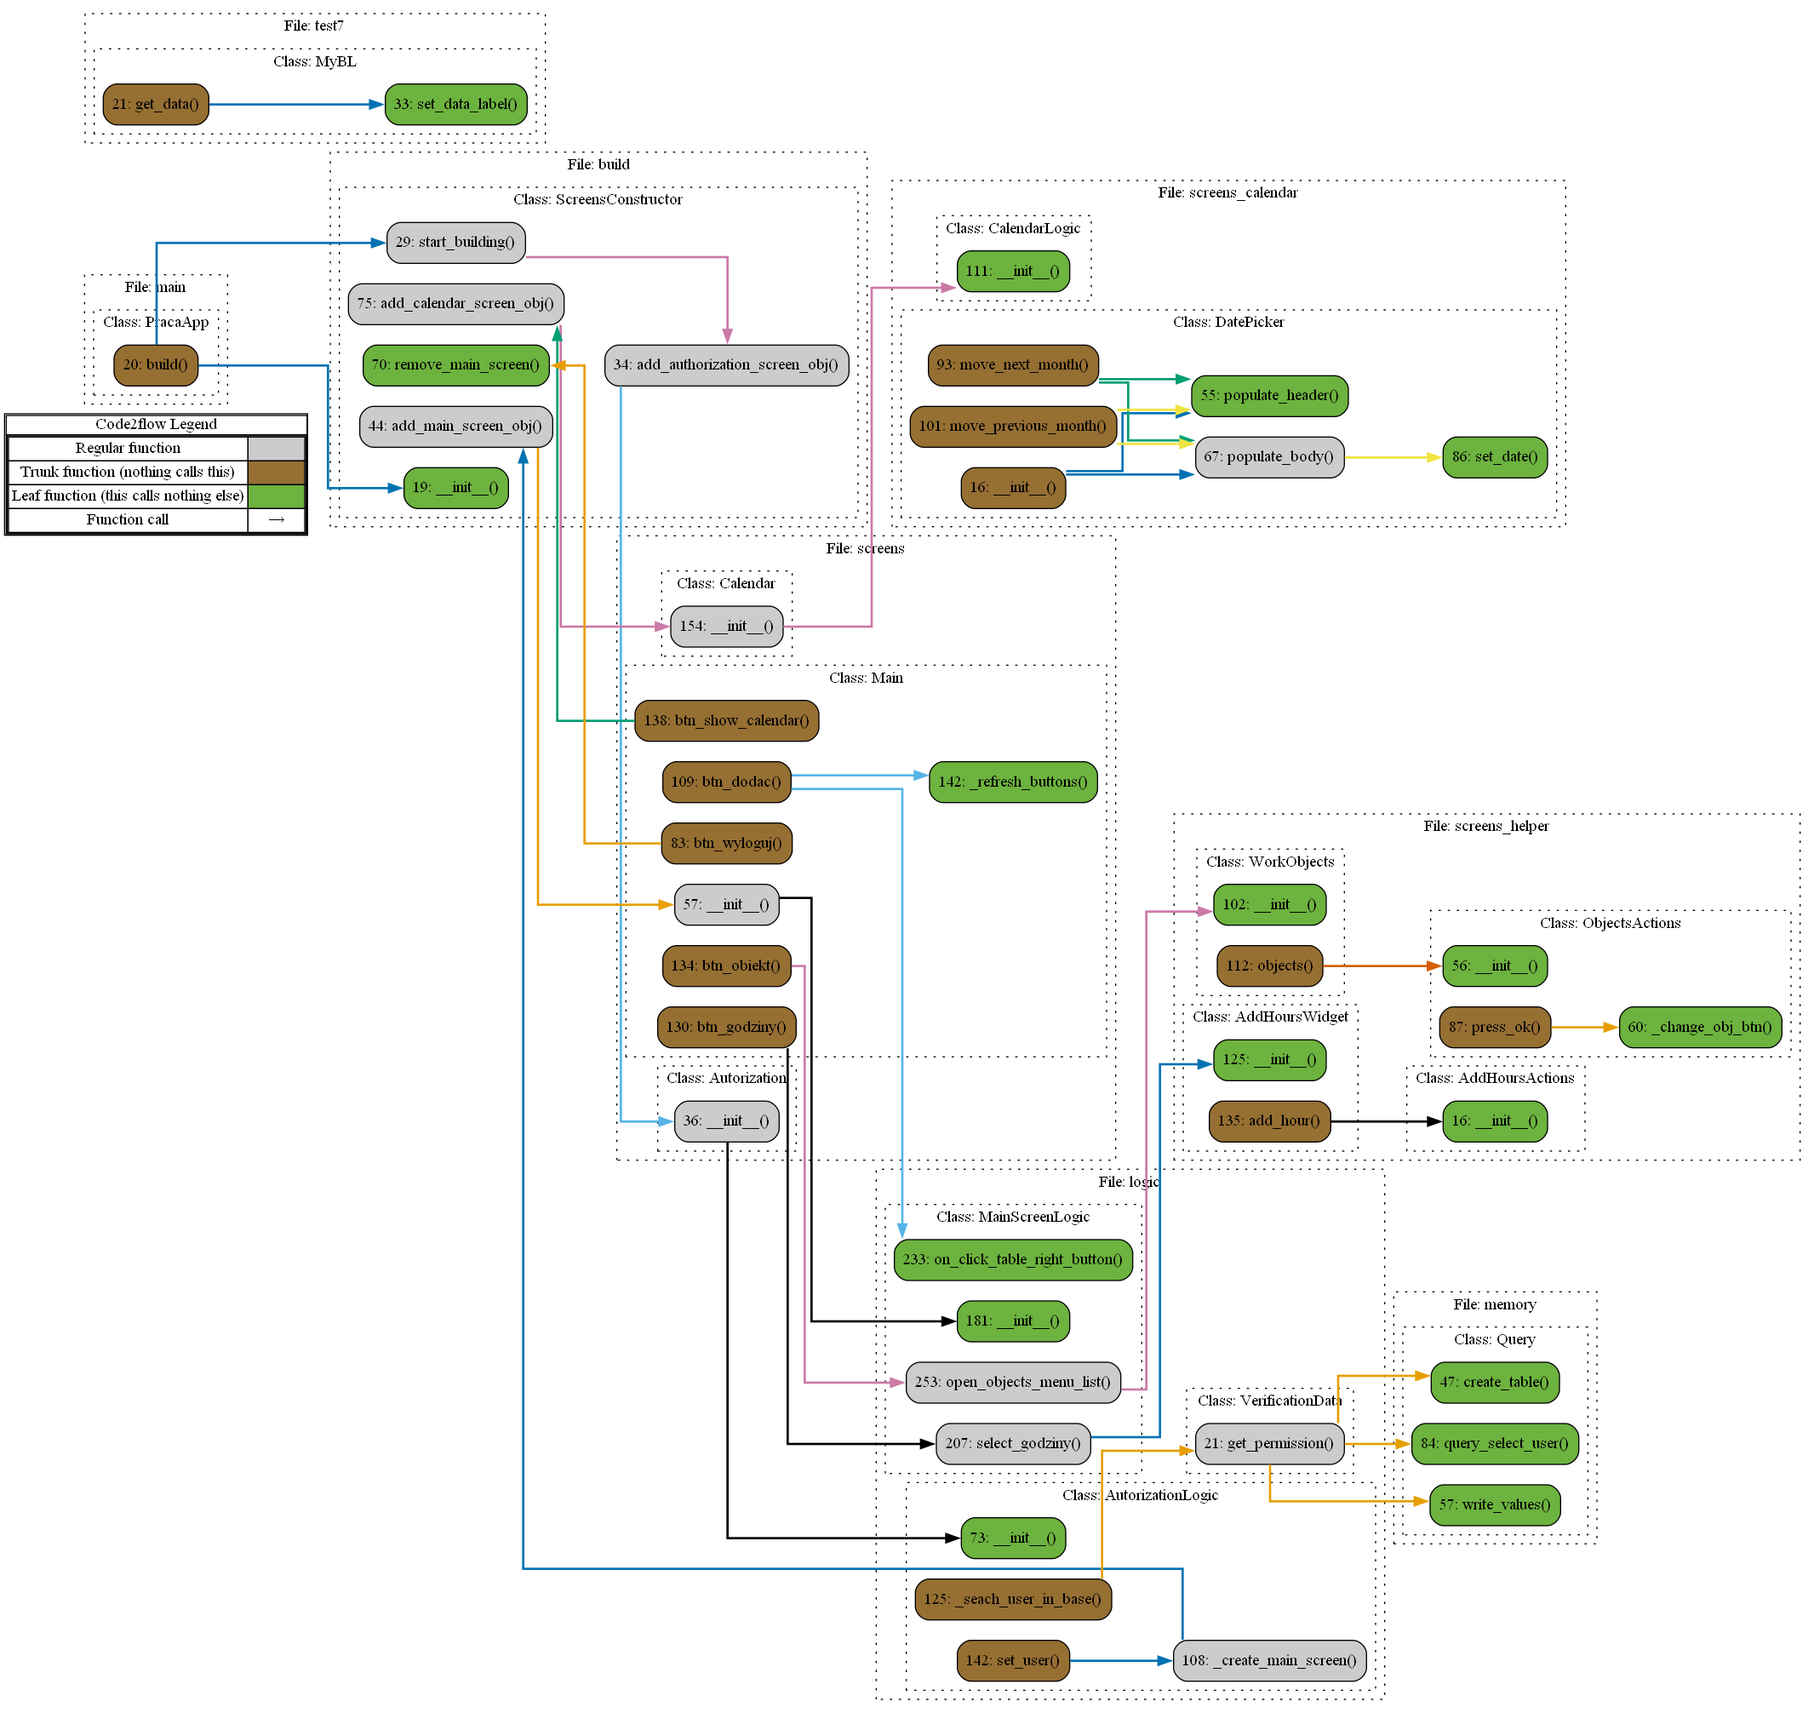
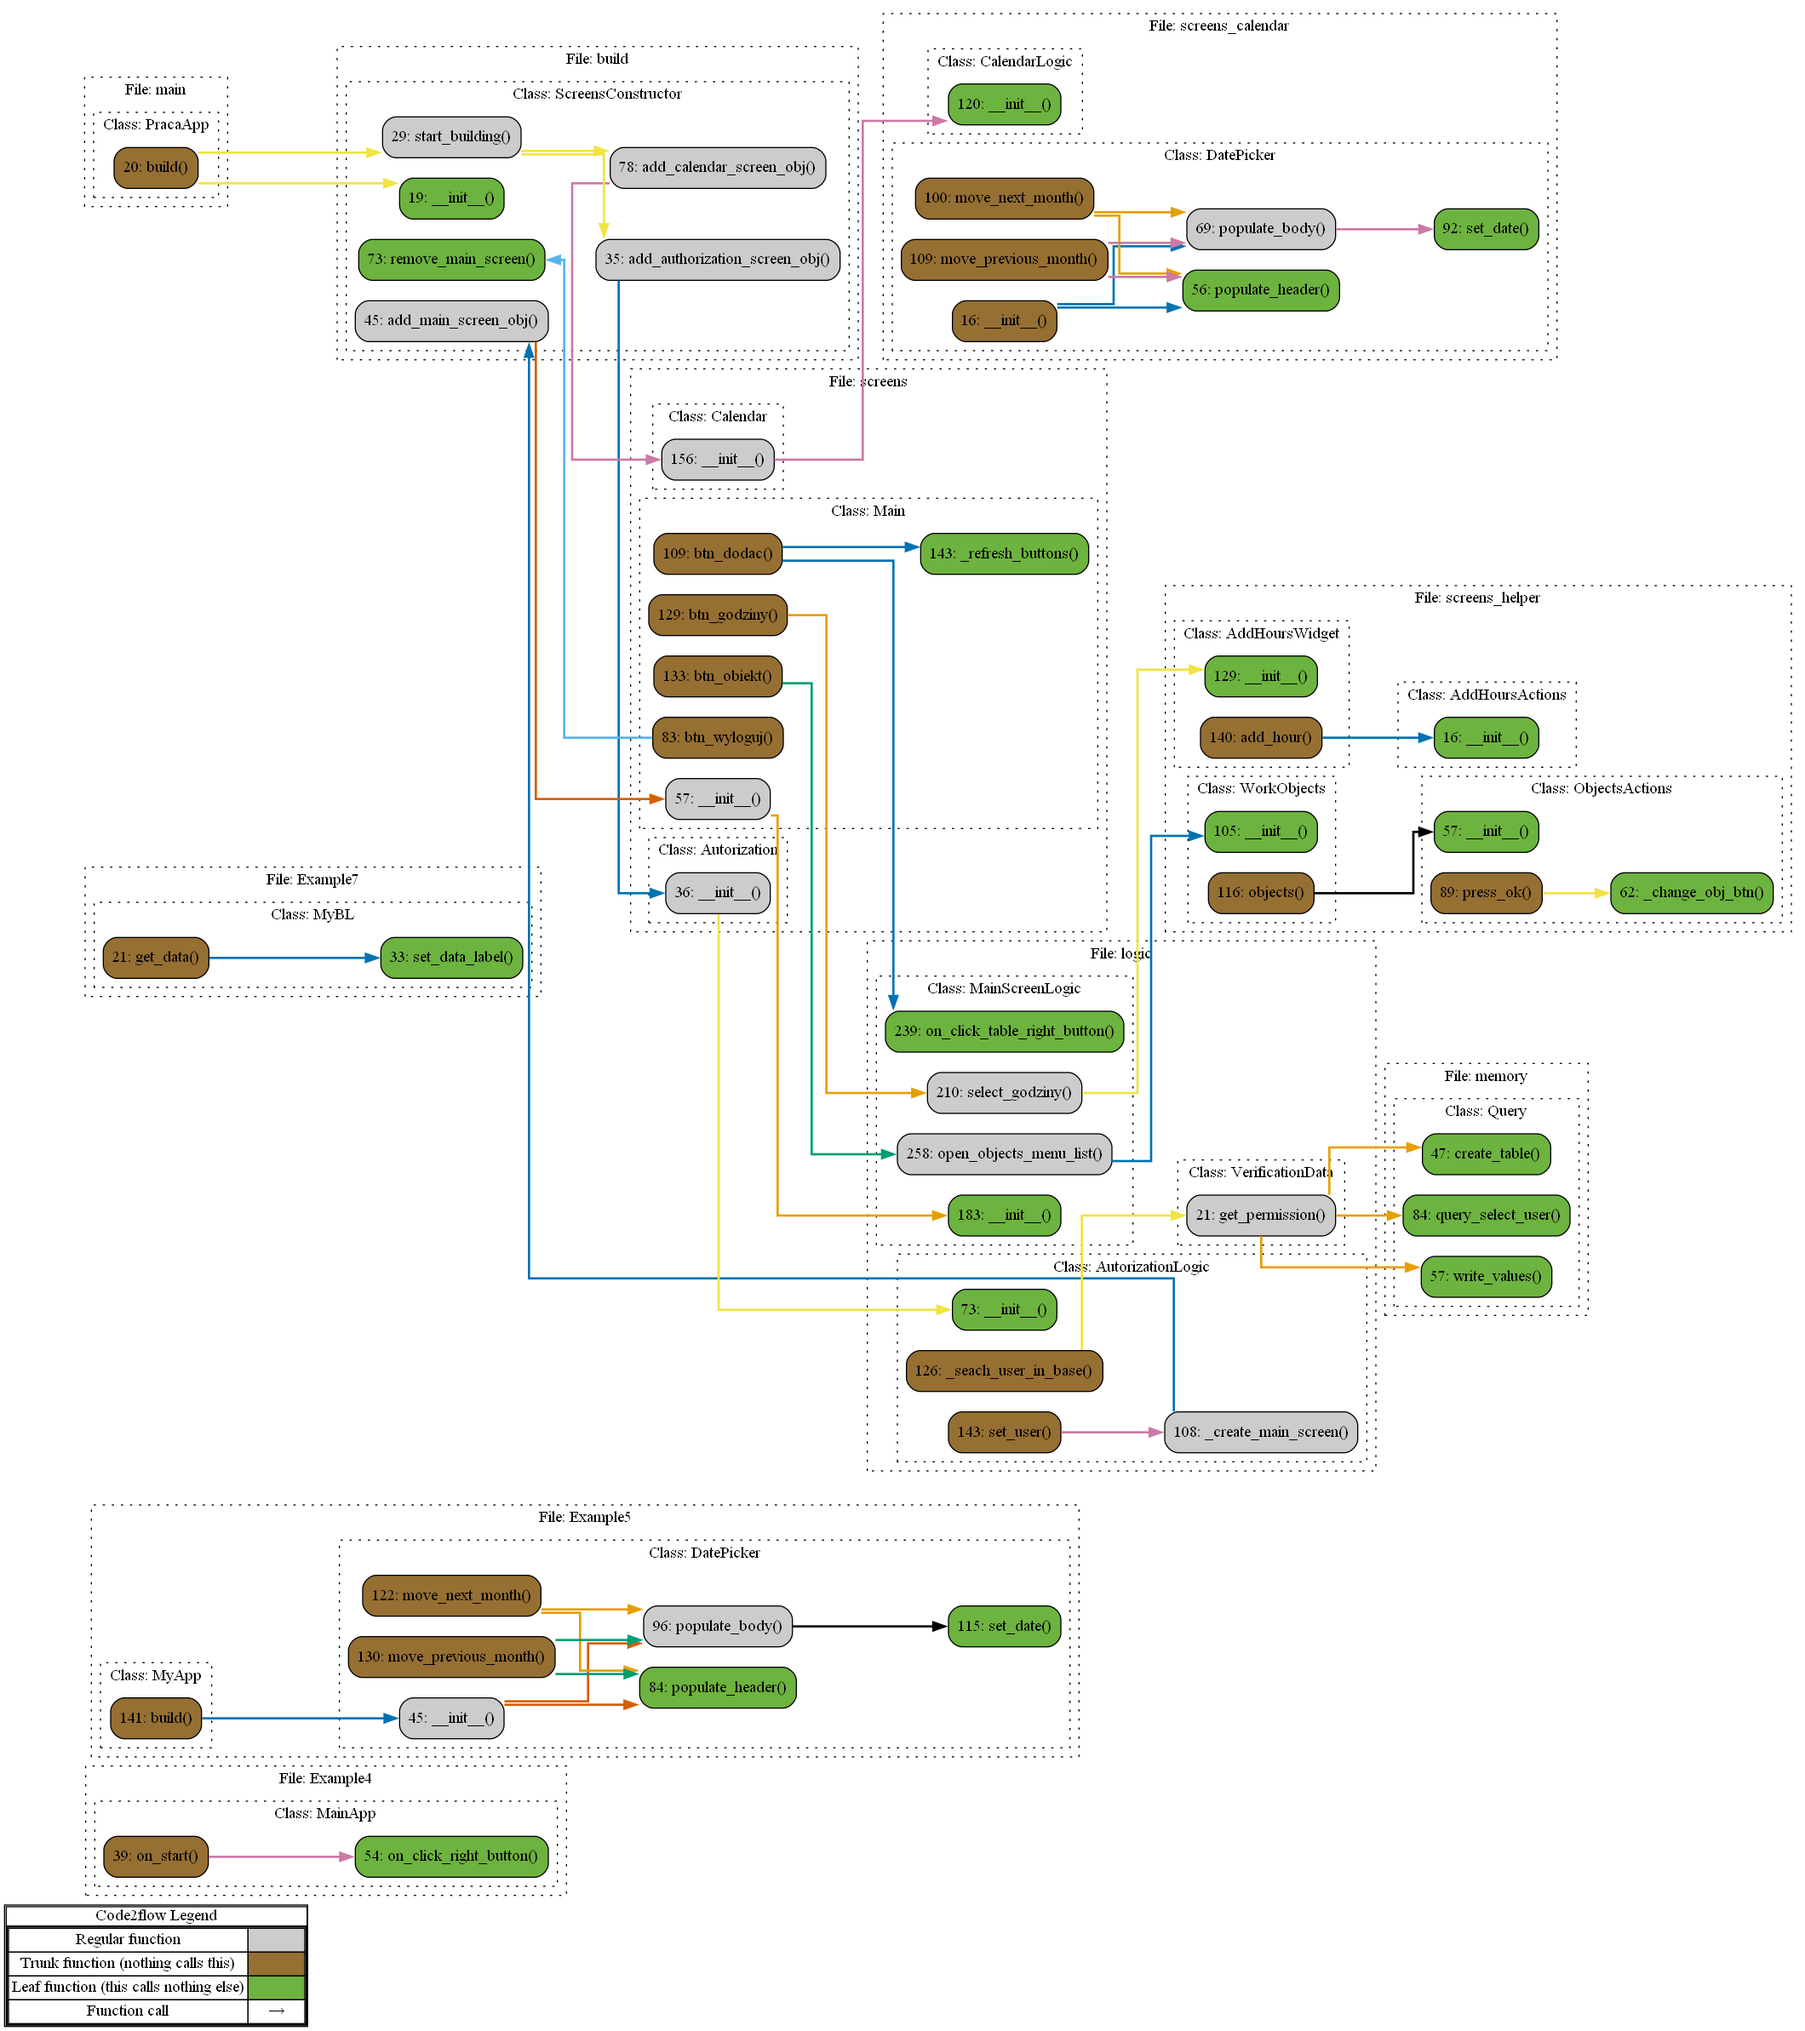
v0.0.55

diff --git a/dev/logic.py b/dev/logic.py
@@ -11,7 +11,7 @@ import dev.db.memory as memory
 import dev.config as config
 import dev.db.queries_struct as queries
 from dev.exceptions import DBConnectionErr
-from dev.view.screens_helper import AddHoursWidget, WorkObjects
+from dev.view.helpers import AddHoursWidget, WorkObjects
 
 
 class VerificationData:
@@ -105,7 +105,7 @@ class AutorizationLogic(VerificationData):
         """Реакция на то, что логин и пароль не находится в базе данных"""
         dev.logger.info('logic.py: class AutorizationLogic(VerificationData) _no_password_reaction()')
 
-    def _create_main_screen(self):
+    def _create_main_screen(self, search_user_thread):
         """Создаю главный экран после авторизации пользователя, если экран еще не создан
         
         self.screen_constructor.popup_screen - подвижная вкладка
@@ -119,6 +119,7 @@ class AutorizationLogic(VerificationData):
                 user_name = self.authorization_obj.user_name.text,
                 user_surname = self.authorization_obj.user_surname.text,
                 screen_constructor = self.screen_constructor,
+                search_user_thread = search_user_thread,
             )
             self.screen_constructor.popup_screen = self.screen_manager.get_screen('main_screen').children[0].ids['_front_layer'].children[0].children[0].children[0]
 
@@ -140,7 +141,7 @@ class AutorizationLogic(VerificationData):
         dev.logger.debug(f'-: user_authorized = {self.authorization_obj.user_authorized}')
     
     def set_user(self) -> None:
-        """Вызов этой функции из интерфейса пользователя.
+        """Вызов этой функции происходит по нажатию кнопки авторизации.
         Исходя из того, что написано в полях ввода,
         составляю представление о пользователе"""
         dev.logger.info('logic.py: class AutorizationLogic(VerificationData) set_user()')
@@ -153,14 +154,14 @@ class AutorizationLogic(VerificationData):
             self.login = _login
             self.password = _password
 
-            ### Отдельным потоком
+            ### Отдельным потоком отправляемся искать данные о пользователе
             search_user_thread = threading.Thread(
                 target=self._seach_user_in_base, 
                 daemon=True,
                 name='search_user_thread')
             search_user_thread.start()
             ###
-            self._create_main_screen()
+            self._create_main_screen(search_user_thread)
         else:
             dev.logger.warning(f"DEBUG: Have NOT Login and Password: '{_login}' '{_password}'")
             pass
@@ -219,10 +220,12 @@ class MainScreenLogic:
             )
         self.dialog_screen_to_set_godziny.open()
 
-    def make_data_table(self):
+    def make_data_table(self, search_user_thread):
         dev.logger.info('logic.py: class MainScreenLogic make_data_table()')
 
+        search_user_thread.join() # дождался когда закончится сборка данных для конкретного пользователя
         user_data = None
+
         if user_data:
             dev.logger.info(f'DEBUG: Have user_data = {user_data}')
         else:

diff --git a/dev/view/screens.py b/dev/view/screens.py
@@ -8,9 +8,9 @@ from kivymd.uix.screen import MDScreen
 
 
 import dev
-from dev.view.logic import AutorizationLogic, MainScreenLogic
-from dev.view.screens_helper import TabelItem
-from dev.view.screens_calendar import CalendarLogic
+from dev.logic import AutorizationLogic, MainScreenLogic
+from dev.view.helpers import TabelItem
+from dev.view.calendar import CalendarLogic
 
 
 class Autorization(MDScreen):
@@ -45,6 +45,9 @@ class Autorization(MDScreen):
                 screen_manager=self.screen_manager,
                 authorization_obj = self,
                 )
+
+    def btn_logowanie(self):
+        self.logic.set_user()
 
 
 class Main(MDScreen):
@@ -110,8 +113,7 @@ class Main(MDScreen):
         dev.logger.info('screens.py: class Main(MDScreen) btn_dodac()')
 
         if self.ids.godziny.text != 'Godziny' and \
-            self.ids.obiekt.text != 'Obiekt' and \
-                self.ids.date.text != 'Data':
+            self.ids.obiekt.text != 'Obiekt':
 
             item = TabelItem(
                 text=self.ids.obiekt.text,
@@ -148,8 +150,9 @@ class Main(MDScreen):
         # self.ids.obiekt.text = 'Obiekt'
         # self.ids.obiekt.icon = 'home-lightning-bolt'
 
-        self.ids.date.text = 'Data'
-        self.ids.date.icon = 'calendar-range'
+        # self.ids.date.text = 'Data'
+        # self.ids.date.icon = 'calendar-range'
+        pass
 
 
 class Calendar(MDScreen):

diff --git a/dev/build.py b/dev/build.py
@@ -47,6 +47,7 @@ class ScreensConstructor:
             user_name,
             user_surname,
             screen_constructor,
+            search_user_thread, # поток в котором получаем все данные о пользователе
             ):
         "Создаю и добавляю главный экран приложения"
         dev.logger.info('build.py: class ScreensConstructor add_main_screen_obj()')
@@ -58,11 +59,12 @@ class ScreensConstructor:
                 screen_manager = self.screen_manager
             )
         
-        ### Отдельным потоком
+        ### Отдельным потоком создаем таблицу данных
         make_table_thread = threading.Thread(
             target=self.main_screen.logic.make_data_table,
             daemon=True,
-            name='make_table_thread'
+            name='make_table_thread',
+            args = [search_user_thread,]
         )
         make_table_thread.start()
         ###

diff --git a/dev/view/helpers.py b/dev/view/helpers.py
@@ -48,10 +48,12 @@ class AddHoursActions:
         dev.logger.info('screens_helper.py: class AddHoursActions press_ok()')
         self.main_screen.ids.godziny.icon = ''
         self.main_screen.ids.godziny.text = str(int(self.hours_progress))
+        self.main_screen.logic.dialog_screen_to_set_godziny.dismiss()
 
     def set_current_value(self, value):
         dev.logger.info('screens_helper.py: class AddHoursActions set_current_value()')
         self.widget.ids.current_hours_value.text = str(int(value))
+
 
 class ObjectsActions:
     def __init__(self, widget, main_screen) -> None:

diff --git a/dev/view/calendar.py b/dev/view/calendar.py
@@ -1,4 +1,3 @@
-import threading
 from datetime import date, timedelta
 
 from kivy.event import EventDispatcher
@@ -10,7 +9,7 @@ from kivy.uix.label import Label
 from kivymd.uix.button import MDRaisedButton
 
 import dev
-from dev.view.screens_helper import DateButton
+from dev.view.helpers import DateButton
 
 
 class DatePicker(BoxLayout, EventDispatcher):

diff --git a/main.py b/main.py
@@ -5,7 +5,7 @@ from kivymd.app import MDApp
 
 import dev
 from dev import config
-from dev.view.build import ScreensConstructor
+from dev.build import ScreensConstructor
 
 Builder.load_file(config.PATH_TO_KV_FILE)
 
